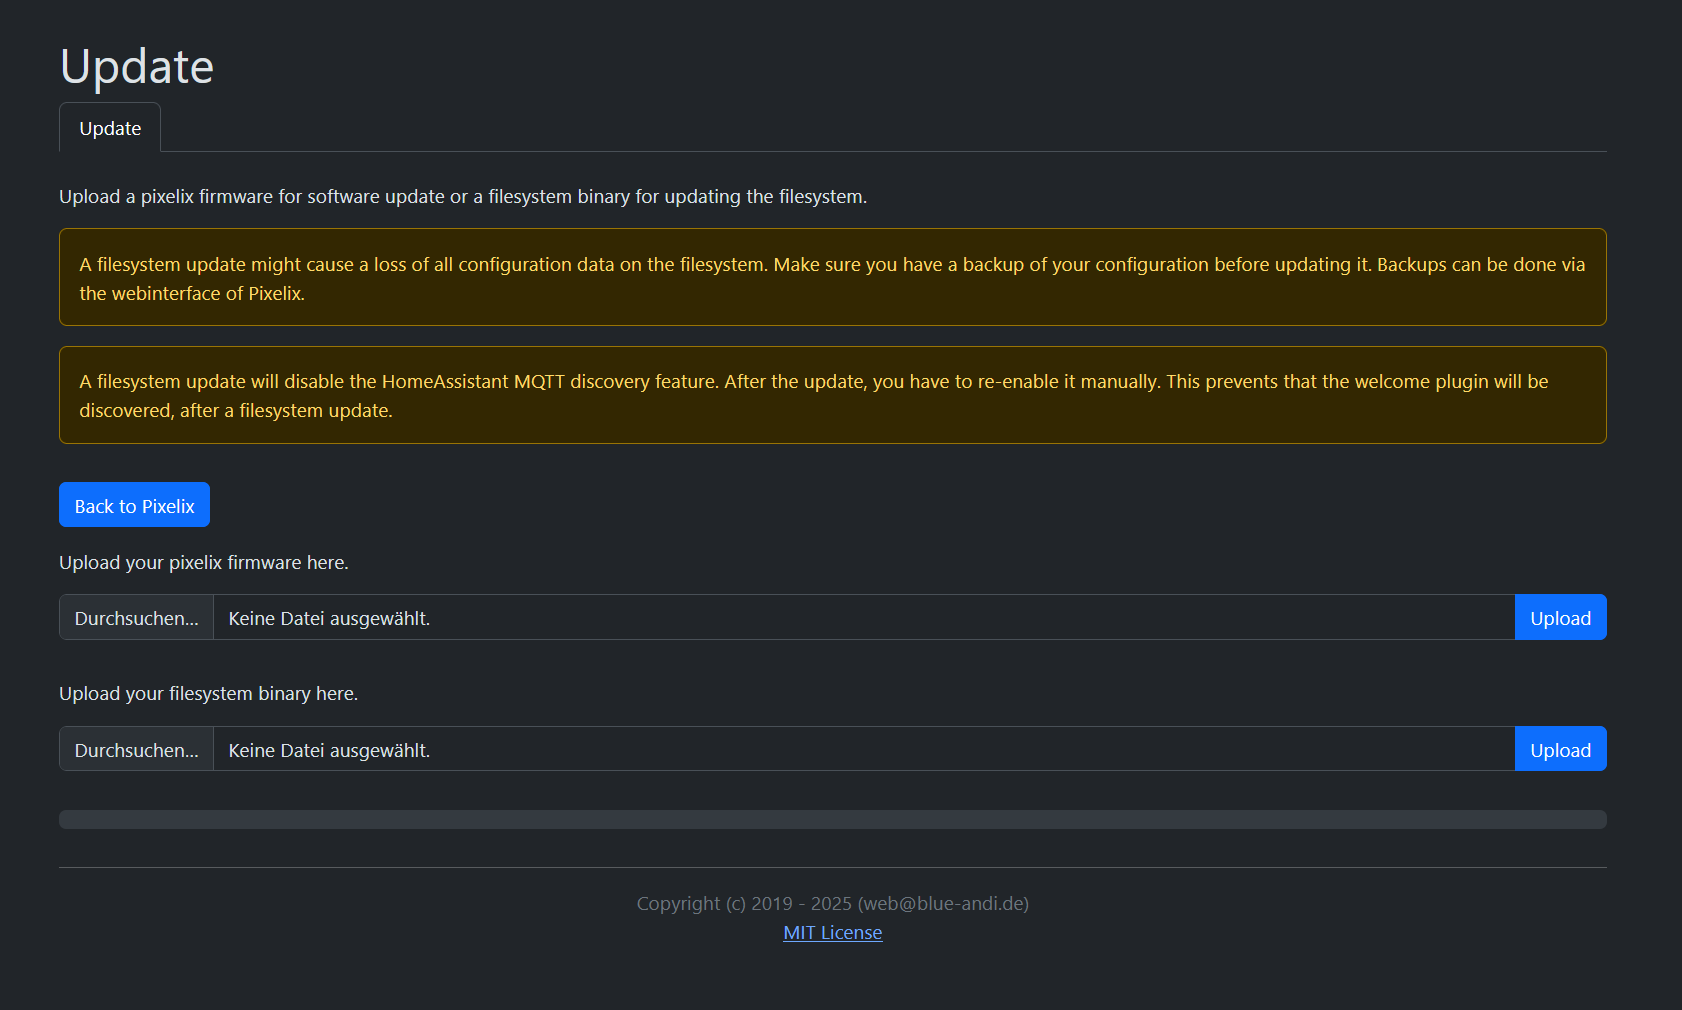
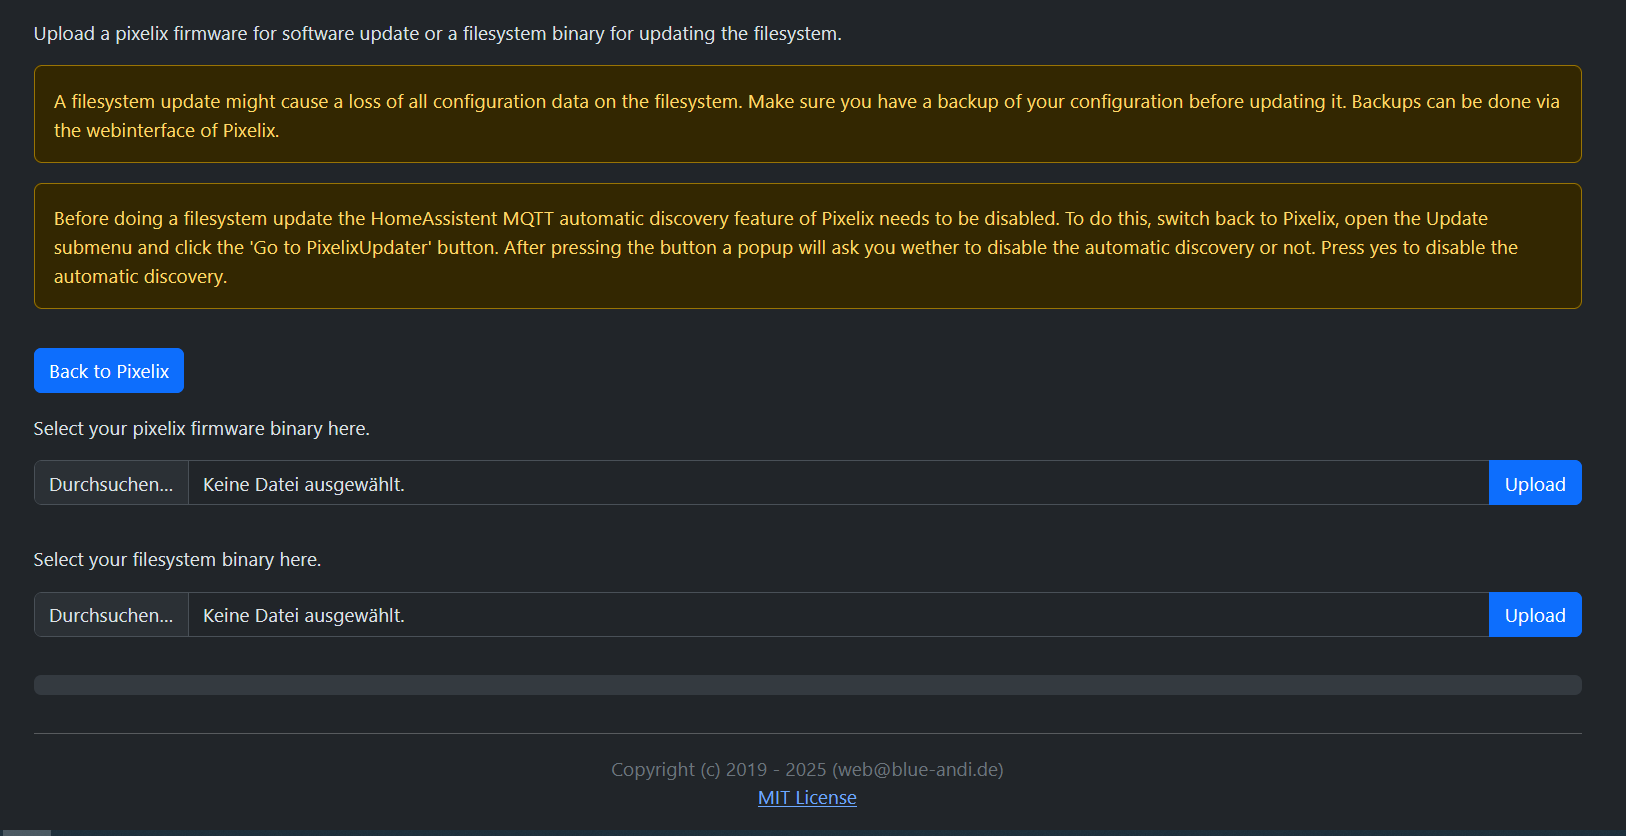
Adjusted the readme to HomeAssistent automatic discovery changes. Added Access Point password to "How to get started"

diff --git a/embed/index.html b/embed/index.html
@@ -62,16 +62,15 @@
                             A filesystem update might cause a loss of all configuration data on the filesystem. Make sure you have a backup of your configuration before updating it. Backups can be done via the webinterface of Pixelix.
                         </div>
                         <div class="alert alert-warning" role="alert">
-                            A filesystem update will disable the HomeAssistant MQTT discovery feature. After the update, you have to re-enable it manually.
-                            This prevents that the welcome plugin will be discovered, after a filesystem update.
+                            Before doing a filesystem update the HomeAssistent MQTT automatic discovery feature of Pixelix needs to be disabled. To do this, switch back to Pixelix, open the Update submenu and click the 'Go to PixelixUpdater' button. After pressing the button a popup will ask you wether to disable the automatic discovery or not. Press yes to disable the automatic discovery.
                         </div>
                         <button class="btn btn-primary extra" type="button" onclick="sendPartitionChangeRequest();">Back to Pixelix</button>
-                        <p>Upload your pixelix firmware here.</p>
+                        <p>Select your pixelix firmware binary here.</p>
                         <div class="input-group">
                             <input type="file" class="form-control" id="inputFirmwareFile" accept=".bin">
                             <button class="btn btn-primary" type="button" onclick="triggerUpload(event);" id="buttonFirmwareUpload">Upload</button>
                         </div>
-                        <p>Upload your filesystem binary here.</p>
+                        <p>Select your filesystem binary here.</p>
                         <div class="input-group">
                             <input type="file" class="form-control" id="inputFilesystemFile" accept=".bin">
                             <button class="btn btn-primary" type="button" onclick="triggerUpload(event);" id="buttonFilesystemUpload">Upload</button>

diff --git a/README.md b/README.md
@@ -59,6 +59,7 @@ First, make sure that the `factory_binaries` folder contains a binary that match
 
 Each release of the PixelixUpdater includes a ZIP file as an asset, which contains the PixelixUpdater binaries for all supported boards. Download this ZIP file and copy the binaries into the `factory_binaries` folder.
 To upload both the SimpleApp and PixelixUpdater binaries press the **Upload** button matching your board in the PlatformIO toolbar (to access the toolbar, click on the ant head icon in the left sidebar).
+After booting your board will spawn an Access Point. The password for the Access Point will be: Luke, I am your father.
 
 ![](doc/images/upload_button.png)
 
